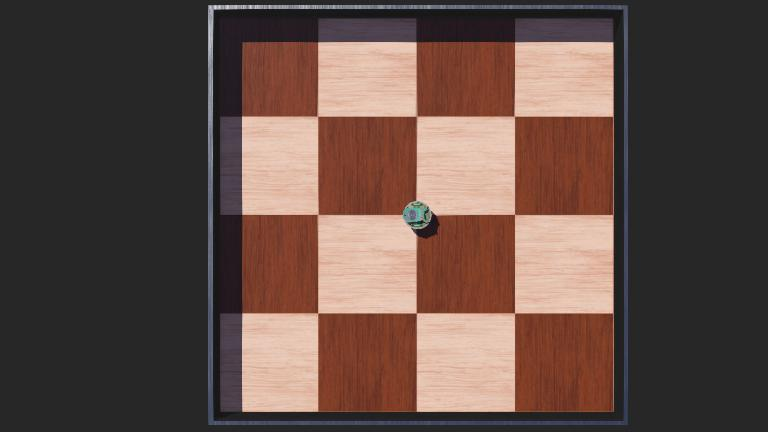
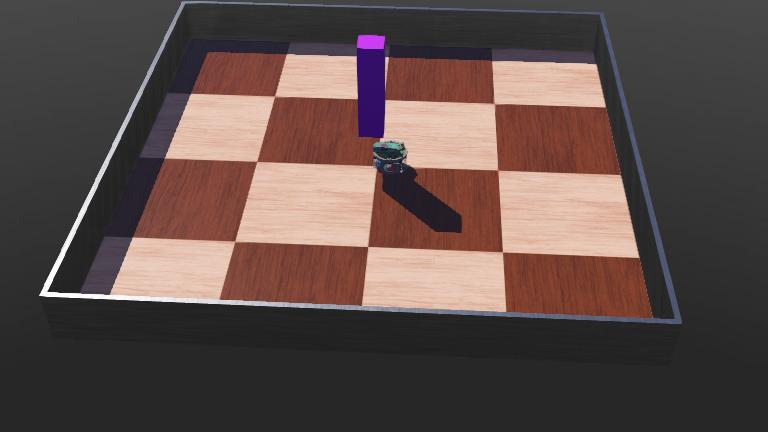
1 Survior random movement

diff --git a/controllers/Survivor/Survivor.py b/controllers/Survivor/Survivor.py
@@ -1,0 +1,30 @@
+from controller import Supervisor
+import random
+
+robot = Supervisor()
+timestep = int(robot.getBasicTimeStep())
+
+print("Supervisor running")
+
+# Object must have DEF TARGET in the world
+target = robot.getFromDef("Survivor")
+
+if target is None:
+    print("ERROR: Could not find object with DEF TARGET")
+else:
+    translation = target.getField("translation")
+
+    positions = [
+        [0.5, 0.5, 0.0],
+        [-0.5, 0.5, 0.0],
+        [0.5, -0.5, 0.0],
+        [-0.5, -0.5, 0.0]
+    ]
+
+    chosen_position = random.choice(positions)
+    translation.setSFVec3f(chosen_position)
+
+    print("Moved TARGET to:", chosen_position)
+
+while robot.step(timestep) != -1:
+    pass